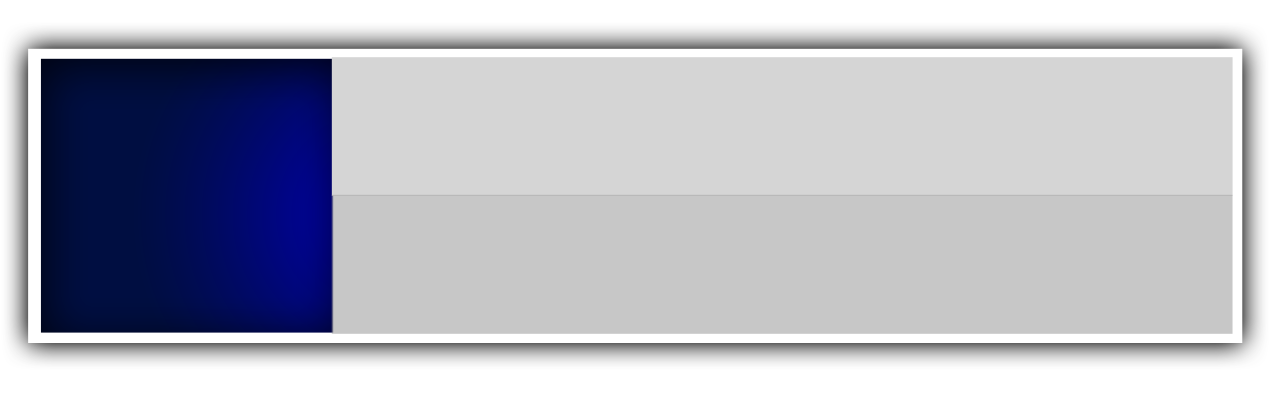
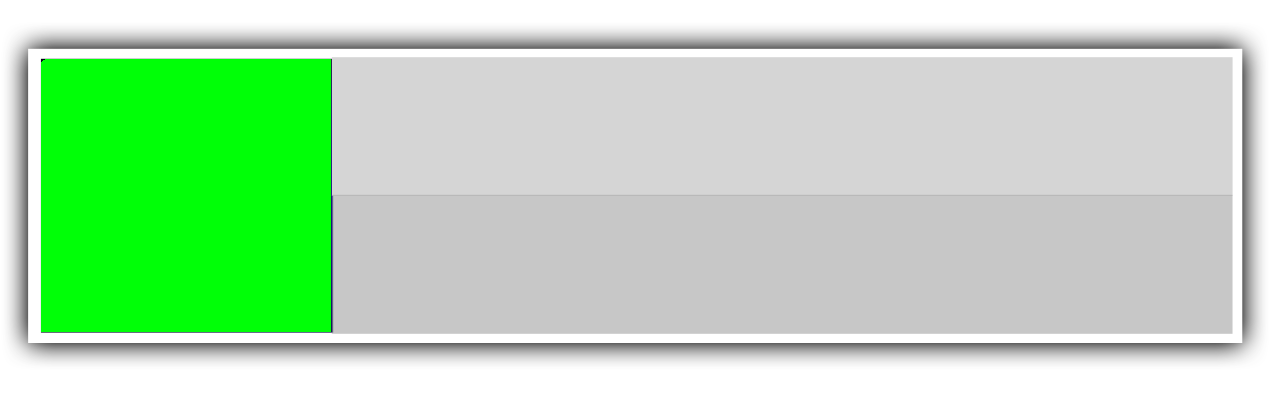
Status and Bugfix

Changed region(s): [[0.0312, 0.1523, 0.2812, 0.8528]]

diff --git a/UHSampleGame/CoreObjects/Towers/TowerCollection.cs b/UHSampleGame/CoreObjects/Towers/TowerCollection.cs
@@ -62,6 +62,22 @@ namespace UHSampleGame.CoreObjects.Towers
         static Vector2 hudBackgroundOffsetFromTower = new Vector2(-20, 8);
         static Color hudColor = new Color(255, 255, 255, 255);
         static Vector3 hudTempLocation;
+
+        static Vector2 levelLocation = Vector2.Zero;
+        static Vector2 levelOffset = new Vector2(1, 1);
+        static SpriteFont levelFont;
+
+        static Texture2D hudHealthBar;
+        static Rectangle hudHealthSource = new Rectangle(0, 0, 904, 136);
+        static Rectangle hudHealthDestination = new Rectangle(0, 0, 34, 10);
+        static Rectangle hudHealthMaxDestination = new Rectangle(0, 0, 34, 10);
+        static Vector2 hudHealthOffset = new Vector2(6, 0);
+
+        static Texture2D hudUpgradeBar;
+        static Rectangle hudUpgradeSource = new Rectangle(0, 0, 904, 136);
+        static Rectangle hudUpgradeDestination = new Rectangle(0, 0, 34, 10);
+        static Rectangle hudUpgradeMaxDestination = new Rectangle(0, 0, 34, 10);
+        static Vector2 hudUpgradeOffset = new Vector2(6, 10);
         #endregion
 
         #region Initialize
@@ -127,7 +143,9 @@ namespace UHSampleGame.CoreObjects.Towers
             }
 
             hudBackground = ScreenManager.Game.Content.Load<Texture2D>("HUD\\towerStatus");
-
+            levelFont = ScreenManager.Game.Content.Load<SpriteFont>("HUD\\levelFont");
+            hudHealthBar = ScreenManager.Game.Content.Load<Texture2D>("HUD\\towerStatus_Health");
+            hudUpgradeBar = ScreenManager.Game.Content.Load<Texture2D>("HUD\\towerStatus_Growth");
         }
 
         public static int AllTowerCount()
@@ -326,13 +344,29 @@ namespace UHSampleGame.CoreObjects.Towers
                                 hudBackgroundLocation.X = (int)(hudTempLocation.X + hudBackgroundOffsetFromTower.X);
                                 hudBackgroundLocation.Y = (int)(hudTempLocation.Y + hudBackgroundOffsetFromTower.Y);
 
+                                levelLocation.X = hudBackgroundLocation.X;
+                                levelLocation.Y = hudBackgroundLocation.Y;
+                                levelLocation += levelOffset;
+
                                 //draw background
                                 ScreenManager.SpriteBatch.Draw(hudBackground,
                                     hudBackgroundLocation, hudBackgroundSourceLocation, hudColor);
 
+                                //draw level num
+                                ScreenManager.SpriteBatch.DrawString(levelFont, towers[p][j][k].LevelString,
+                                    levelLocation, hudColor);
+
                                 //draw health bar
+                                hudHealthDestination.X = (int)(hudBackgroundLocation.X + hudHealthOffset.X);
+                                hudHealthDestination.Y = (int)(hudBackgroundLocation.Y + hudHealthOffset.Y);
+                                ScreenManager.SpriteBatch.Draw(hudHealthBar,
+                                    hudHealthDestination, hudHealthSource, hudColor);
 
                                 //draw upgrade bar
+                                hudUpgradeDestination.X = (int)(hudBackgroundLocation.X + hudUpgradeOffset.X);
+                                hudUpgradeDestination.Y = (int)(hudBackgroundLocation.Y + hudUpgradeOffset.Y);
+                                ScreenManager.SpriteBatch.Draw(hudUpgradeBar,
+                                    hudUpgradeDestination, hudUpgradeSource, hudColor);
 
                                 drawCount++;
                             }

diff --git a/UHSampleGame/Player/Player.cs b/UHSampleGame/Player/Player.cs
@@ -860,10 +860,13 @@ namespace UHSampleGame.Players
                 {
                     PlayerBase.Destroy();
                     Vector3 nv = new Vector3();
-                    nv.X = avatar.Position.X;
-                    nv.Y = avatar.Position.Y + 5;
-                    nv.Z = avatar.Position.Z;
-                    ProjectileManager.AddParticle(avatar.Position, nv);
+                    if (this.Type != PlayerType.AI)
+                    {
+                        nv.X = avatar.Position.X;
+                        nv.Y = avatar.Position.Y + 5;
+                        nv.Z = avatar.Position.Z;
+                        ProjectileManager.AddParticle(avatar.Position, nv);
+                    }
                     PlayerCollection.SetPlayerInactive(PlayerNum);
                 }
             }

diff --git a/UHSampleGame/CoreObjects/Towers/Tower.cs b/UHSampleGame/CoreObjects/Towers/Tower.cs
@@ -50,7 +50,8 @@ namespace UHSampleGame.CoreObjects.Towers
         public int Health;
         public int HealthCapacity;
         public int XP;
-        public int Level;
+        public int Level = 1;
+        public string LevelString = "1";
         public int Cost;
         public int TotalInvestedCost;
 
@@ -58,6 +59,7 @@ namespace UHSampleGame.CoreObjects.Towers
         TimeSpan currentTimeSpan = new TimeSpan();
 
         static int currentID = 0;
+
         #endregion
 
         #region Initialization
